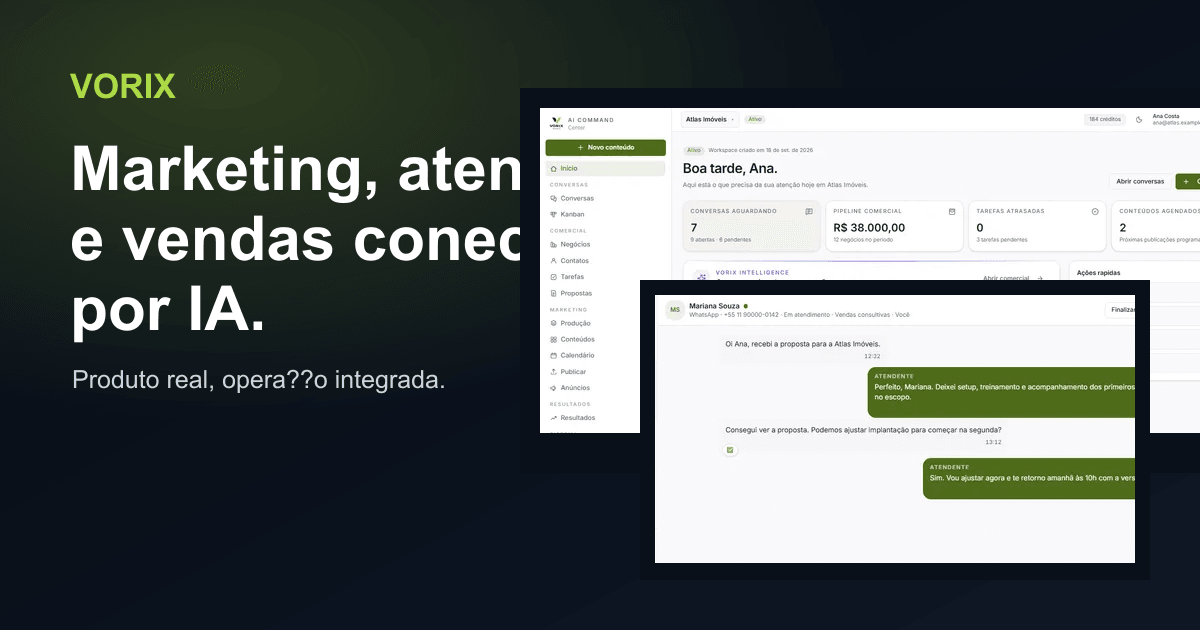
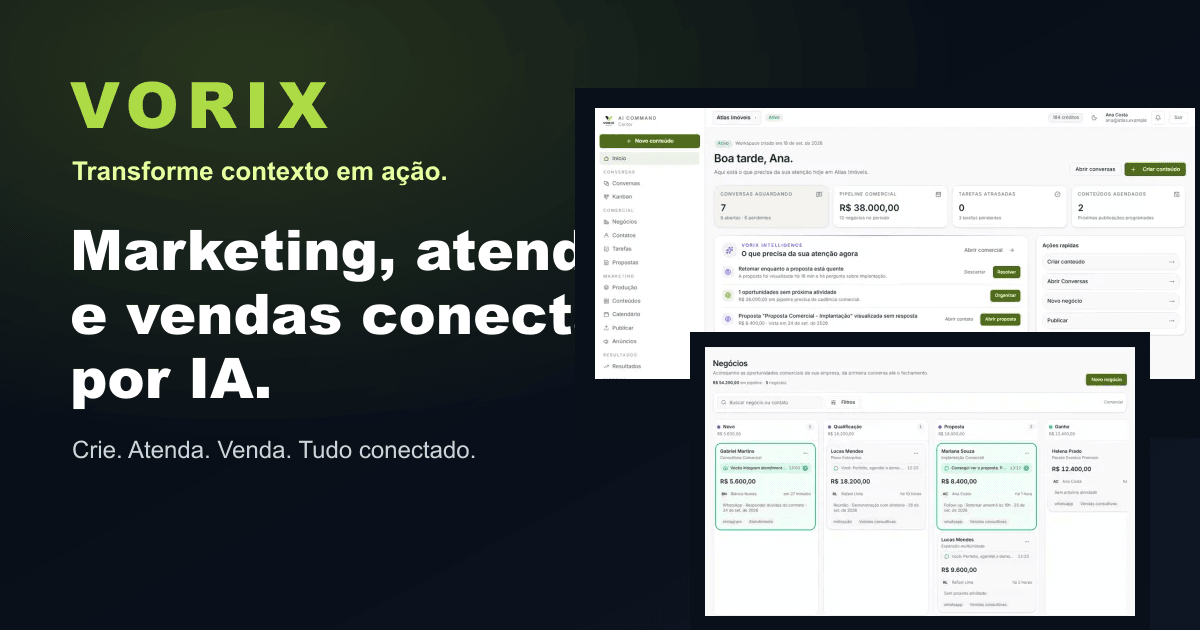
feat(web): pagina Empresa, metadata de SEO/OG mais forte e correcao de marca
Nova rota publica /empresa. Metadata (title/description/OG/Twitter) da home
reescrita com proposta de valor explicita ("Transforme contexto em ação") em
vez do nome sozinho; aponta pro opengraph-image.png estatico (troca feita no
commit anterior). Logo.tsx: aria-label/comentario corrigidos de "Vonix" para
"Vorix" (typo de marca). proxy.ts libera /empresa como rota publica.

Changed region(s): [[0.0617, 0.1206, 1.0, 0.9952], [0.0617, 0.573, 0.37, 0.6635], [0.0617, 0.6937, 0.4008, 0.7238]]

diff --git a/web/app/page.tsx b/web/app/page.tsx
@@ -92,14 +92,15 @@ export default async function RootPage() {
       <section className="relative border-b border-white/10 bg-[#080c13]">
         <div className="mx-auto grid max-w-7xl items-center gap-9 px-4 py-14 sm:px-6 sm:py-18 lg:grid-cols-[0.76fr_1.24fr] lg:py-20">
           <div className="max-w-2xl">
-            <p className="inline-flex rounded-full border border-[#addb46]/35 bg-[#addb46]/10 px-3 py-1 text-xs font-medium text-[#d7ff74]">
-              Vorix Intelligence
-            </p>
+            <div className="inline-flex flex-col gap-1">
+              <span className="font-mono text-sm font-semibold uppercase tracking-[0.28em] text-[#d7ff74]">Vorix</span>
+              <span className="text-sm font-medium text-slate-300">Transforme contexto em ação.</span>
+            </div>
             <h1 className="mt-5 text-balance font-display text-4xl font-semibold sm:text-5xl lg:text-6xl">
               Marketing, atendimento e vendas conectados por IA.
             </h1>
             <p className="mt-5 max-w-xl text-balance text-base leading-7 text-slate-300 sm:text-lg">
-              O Vorix conecta conteudo, conversas, CRM e resultados para sua equipe transformar contexto em receita.
+              O Vorix conecta conteudo, conversas, CRM e resultados para sua equipe transformar contexto em ação e ação em receita.
             </p>
             <div className="mt-7 flex flex-wrap gap-3">
               <Link href="/signup">
@@ -134,6 +135,8 @@ export default async function RootPage() {
           </div>
         </div>
       </section>
+
+      <BrandMissionSection />
 
       <section id="intelligence" className="border-y border-white/10 bg-[#070b12]">
         <div className="mx-auto grid max-w-7xl gap-10 px-4 py-16 sm:px-6 lg:grid-cols-[0.72fr_1.28fr] lg:py-20">
@@ -203,8 +206,9 @@ export default async function RootPage() {
 
       <section className="border-y border-white/10 bg-[#0b1019]">
         <div className="mx-auto max-w-4xl px-4 py-16 text-center sm:px-6 lg:py-20">
-          <h2 className="font-display text-3xl font-semibold text-white sm:text-4xl">Pronto para conectar sua operacao?</h2>
-          <p className="mx-auto mt-3 max-w-2xl text-slate-300">Marketing, atendimento e vendas trabalhando juntos no mesmo fluxo.</p>
+          <p className="font-mono text-sm font-semibold uppercase tracking-[0.28em] text-[#addb46]">Vorix</p>
+          <h2 className="mt-3 font-display text-3xl font-semibold text-white sm:text-4xl">Crie. Atenda. Venda. Tudo conectado.</h2>
+          <p className="mx-auto mt-3 max-w-2xl text-slate-300">Transforme contexto em ação com marketing, conversas e vendas trabalhando no mesmo fluxo.</p>
           <Link href="/signup">
             <Button className="mt-7 bg-[#addb46] px-6 py-3 text-[#071009] hover:bg-[#c7f45b]">Testar o Vorix por 7 dias</Button>
           </Link>
@@ -249,6 +253,64 @@ type ProductSection = {
     className: string;
   };
 };
+
+function BrandMissionSection() {
+  const flow = ["Criar", "Atender", "Vender"];
+  return (
+    <section className="border-y border-white/10 bg-[#0a0f18]">
+      <div className="mx-auto grid max-w-7xl gap-10 px-4 py-16 sm:px-6 lg:grid-cols-[0.95fr_1.05fr] lg:items-center lg:py-20">
+        <div>
+          <p className="font-mono text-sm font-semibold uppercase tracking-[0.26em] text-[#addb46]">Por que o Vorix existe</p>
+          <h2 className="mt-4 max-w-2xl font-display text-3xl font-semibold text-white sm:text-4xl">
+            Criar, atender e vender não deveriam acontecer em mundos separados.
+          </h2>
+          <p className="mt-5 max-w-2xl text-base leading-7 text-slate-300">
+            Empresas ainda operam marketing, atendimento e vendas como áreas isoladas. O resultado é perda de contexto, retrabalho e oportunidades esquecidas.
+          </p>
+          <p className="mt-4 max-w-2xl text-base leading-7 text-slate-300">
+            O Vorix nasceu para eliminar essas rupturas: conectar criação, conversas e gestão comercial em uma operação inteligente.
+          </p>
+          <div className="mt-7 flex flex-wrap gap-3">
+            <Link href="#produto">
+              <Button variant="secondary" className="border-white/20 bg-white/5 text-white hover:bg-white/10">
+                Ver o Vorix em ação
+              </Button>
+            </Link>
+            <Link href="/empresa">
+              <Button variant="ghost" className="text-white hover:bg-white/10">Conhecer a missão</Button>
+            </Link>
+          </div>
+        </div>
+
+        <div className="rounded-2xl border border-white/10 bg-[#101827] p-5 shadow-2xl shadow-black/30 sm:p-6">
+          <div className="mb-6">
+            <p className="font-mono text-xs font-semibold uppercase tracking-[0.24em] text-[#d7ff74]">Vorix</p>
+            <p className="mt-2 text-2xl font-semibold text-white">Transforme contexto em ação.</p>
+            <p className="mt-1 text-sm text-slate-400">Transforme ação em resultado.</p>
+          </div>
+          <div className="grid gap-3 md:grid-cols-3">
+            {flow.map((item, index) => (
+              <div key={item} className="relative rounded-xl border border-white/10 bg-white/[0.04] p-4">
+                {index < flow.length - 1 ? (
+                  <ArrowRight className="absolute -right-5 top-1/2 hidden h-5 w-5 -translate-y-1/2 text-[#addb46] md:block" />
+                ) : null}
+                <p className="font-mono text-xs text-slate-500">0{index + 1}</p>
+                <p className="mt-3 text-xl font-semibold text-white">{item}</p>
+                <p className="mt-2 text-sm leading-6 text-slate-400">{brandFlowCopy(item)}</p>
+              </div>
+            ))}
+          </div>
+          <div className="mt-5 rounded-xl border border-[#addb46]/25 bg-[#addb46]/10 p-4">
+            <p className="text-sm font-medium text-[#e6ff9f]">O contexto atravessa a operação.</p>
+            <p className="mt-1 text-sm leading-6 text-slate-300">
+              A conversa carrega o contato. O CRM conhece a conversa. A proposta conhece o negócio. O time decide com menos ruptura.
+            </p>
+          </div>
+        </div>
+      </div>
+    </section>
+  );
+}
 
 type ProductShotName =
   | "command-center"
@@ -419,4 +481,10 @@ function journeyCopy(step: (typeof JOURNEY)[number]) {
   if (step === "Conversar") return "O retorno entra no atendimento com historico.";
   if (step === "Vender") return "Contato vira oportunidade, tarefa e proposta.";
   return "O time acompanha sinais e resultado sem perder contexto.";
+}
+
+function brandFlowCopy(step: string) {
+  if (step === "Criar") return "Marketing gera demanda com identidade e direção.";
+  if (step === "Atender") return "Conversas preservam histórico e intenção.";
+  return "Oportunidades, tarefas e propostas avançam com contexto.";
 }

diff --git a/web/app/empresa/page.tsx b/web/app/empresa/page.tsx
@@ -1,0 +1,138 @@
+import type { Metadata } from "next";
+import Link from "next/link";
+import { ArrowRight } from "lucide-react";
+import { Button } from "@/components/Button";
+import { PublicFooter } from "@/components/public/PublicFooter";
+import { PublicHeader } from "@/components/public/PublicHeader";
+import { TrackPageView } from "@/components/TrackPageView";
+
+export const metadata: Metadata = {
+  title: "Empresa — Vorix",
+  description: "Por que o Vorix existe: eliminar rupturas entre criar, atender e vender para transformar contexto em ação.",
+  openGraph: {
+    title: "Empresa — Vorix",
+    description: "Transforme contexto em ação.",
+    url: "https://vorixworks.com/empresa",
+  },
+};
+
+const PRINCIPLES = [
+  {
+    title: "Contexto antes de complexidade",
+    description: "Tudo que o time precisa para decidir deve atravessar a operação, sem se perder entre ferramentas.",
+  },
+  {
+    title: "Automação sem perder controle",
+    description: "IA e automação ajudam a equipe a agir melhor, sem esconder o que está acontecendo.",
+  },
+  {
+    title: "Simples por fora",
+    description: "O sistema pode ser sofisticado internamente, mas precisa ser claro para quem opera todos os dias.",
+  },
+  {
+    title: "Resultado acima de ferramenta",
+    description: "Tecnologia só importa quando reduz ruptura, melhora cadência e ajuda a operação a avançar.",
+  },
+];
+
+export default function EmpresaPage() {
+  return (
+    <main className="min-h-dvh bg-[#070b12] text-white">
+      <TrackPageView eventName="landing_view" />
+      <PublicHeader />
+
+      <section className="border-b border-white/10">
+        <div className="mx-auto max-w-7xl px-4 py-16 sm:px-6 lg:py-24">
+          <p className="font-mono text-sm font-semibold uppercase tracking-[0.28em] text-[#addb46]">Vorix</p>
+          <h1 className="mt-5 max-w-4xl font-display text-4xl font-semibold sm:text-5xl lg:text-6xl">
+            Existimos para eliminar rupturas entre criar, atender e vender.
+          </h1>
+          <p className="mt-6 max-w-2xl text-lg leading-8 text-slate-300">
+            Marketing cria demanda. A demanda vira conversa. A conversa vira contato. O contato vira negócio. O contexto não deveria se perder nesse caminho.
+          </p>
+          <div className="mt-8 flex flex-wrap gap-3">
+            <Link href="/signup">
+              <Button className="bg-[#addb46] px-5 py-3 text-[#071009] hover:bg-[#c7f45b]">Testar por 7 dias</Button>
+            </Link>
+            <Link href="/#produto">
+              <Button variant="secondary" className="border-white/20 bg-white/5 px-5 py-3 text-white hover:bg-white/10">Ver produto</Button>
+            </Link>
+          </div>
+        </div>
+      </section>
+
+      <section className="border-b border-white/10 bg-[#0a0f18]">
+        <div className="mx-auto grid max-w-7xl gap-8 px-4 py-16 sm:px-6 lg:grid-cols-[0.75fr_1.25fr] lg:py-20">
+          <div>
+            <p className="font-mono text-sm font-semibold uppercase tracking-[0.24em] text-[#addb46]">Nossa missão</p>
+          </div>
+          <div>
+            <p className="font-display text-3xl font-semibold leading-tight text-white sm:text-4xl">
+              Eliminar as rupturas entre criar, atender e vender.
+            </p>
+            <p className="mt-5 max-w-3xl text-base leading-8 text-slate-300">
+              Nossa missão é eliminar as rupturas entre criar, atender e vender, conectando marketing, conversas e gestão comercial em uma única operação inteligente — para transformar contexto em ação e ação em resultado.
+            </p>
+          </div>
+        </div>
+      </section>
+
+      <section className="border-b border-white/10">
+        <div className="mx-auto grid max-w-7xl gap-10 px-4 py-16 sm:px-6 lg:grid-cols-2 lg:py-20">
+          <InstitutionBlock
+            eyebrow="O problema"
+            title="Operações crescem em sistemas separados."
+            body="Quando criação, atendimento e vendas ficam isolados, o time perde histórico, repete trabalho e deixa oportunidades sem próxima ação."
+          />
+          <InstitutionBlock
+            eyebrow="Nossa visão"
+            title="Um futuro sem contextos separados."
+            body="Acreditamos em empresas operando marketing, atendimento e vendas em uma mesma cadência, com informação conectada e decisões mais claras."
+          />
+        </div>
+      </section>
+
+      <section className="bg-[#0b1019]">
+        <div className="mx-auto max-w-7xl px-4 py-16 sm:px-6 lg:py-20">
+          <div className="max-w-3xl">
+            <p className="font-mono text-sm font-semibold uppercase tracking-[0.24em] text-[#addb46]">Princípios</p>
+            <h2 className="mt-4 font-display text-3xl font-semibold text-white sm:text-4xl">O que guia o produto.</h2>
+          </div>
+          <div className="mt-10 grid gap-4 md:grid-cols-2">
+            {PRINCIPLES.map((principle) => (
+              <article key={principle.title} className="rounded-xl border border-white/10 bg-white/[0.04] p-5">
+                <h3 className="font-semibold text-white">{principle.title}</h3>
+                <p className="mt-3 text-sm leading-6 text-slate-300">{principle.description}</p>
+              </article>
+            ))}
+          </div>
+        </div>
+      </section>
+
+      <section className="border-y border-white/10 bg-[#070b12]">
+        <div className="mx-auto max-w-4xl px-4 py-16 text-center sm:px-6 lg:py-20">
+          <p className="font-mono text-sm font-semibold uppercase tracking-[0.28em] text-[#addb46]">Vorix</p>
+          <h2 className="mt-3 font-display text-3xl font-semibold text-white sm:text-4xl">Transforme contexto em ação.</h2>
+          <p className="mx-auto mt-3 max-w-2xl text-slate-300">Crie. Atenda. Venda. Tudo conectado.</p>
+          <Link href="/signup">
+            <Button className="mt-7 bg-[#addb46] px-6 py-3 text-[#071009] hover:bg-[#c7f45b]">
+              Testar por 7 dias <ArrowRight className="ml-2 h-4 w-4" />
+            </Button>
+          </Link>
+        </div>
+      </section>
+
+      <PublicFooter />
+    </main>
+  );
+}
+
+function InstitutionBlock({ eyebrow, title, body }: { eyebrow: string; title: string; body: string }) {
+  return (
+    <article className="rounded-2xl border border-white/10 bg-[#101827] p-6">
+      <p className="font-mono text-xs font-semibold uppercase tracking-[0.22em] text-[#addb46]">{eyebrow}</p>
+      <h2 className="mt-4 font-display text-2xl font-semibold text-white sm:text-3xl">{title}</h2>
+      <p className="mt-4 text-base leading-7 text-slate-300">{body}</p>
+    </article>
+  );
+}

diff --git a/web/components/public/PublicHeader.tsx b/web/components/public/PublicHeader.tsx
@@ -18,15 +18,15 @@ export function PublicHeader() {
   return (
     <header className="sticky top-0 z-40 border-b border-white/10 bg-[#070b12]/90 text-white backdrop-blur-xl">
       <div className="mx-auto flex h-16 w-full max-w-7xl items-center justify-between px-4 sm:px-6">
-        <Link href="/" aria-label="Vorix">
-          <Logo className="h-10 w-auto text-white" />
+        <Link href="/" aria-label="Vorix" className="flex items-center">
+          <Logo className="h-12 w-auto text-white sm:h-[52px]" />
         </Link>
         <nav className="hidden items-center gap-6 text-sm text-slate-300 md:flex">
           {LINKS.map((link) => <Link key={link.href} href={link.href} className="hover:text-white">{link.label}</Link>)}
         </nav>
         <div className="hidden items-center gap-2 md:flex">
           <Link href="/login"><Button variant="ghost" className="text-white hover:bg-white/10">Entrar</Button></Link>
-          <Link href="/signup"><Button className="bg-[#addb46] text-[#071009] hover:bg-[#c7f45b]">Criar conta</Button></Link>
+          <Link href="/signup"><Button className="bg-[#addb46] text-[#071009] hover:bg-[#c7f45b]">Testar por 7 dias</Button></Link>
         </div>
         <button type="button" className="flex h-10 w-10 items-center justify-center rounded-md text-white hover:bg-white/10 md:hidden" onClick={() => setOpen((value) => !value)} aria-label="Abrir menu">
           {open ? <X className="h-5 w-5" /> : <Menu className="h-5 w-5" />}
@@ -39,7 +39,7 @@ export function PublicHeader() {
           </nav>
           <div className="mt-4 grid gap-2">
             <Link href="/login" onClick={() => setOpen(false)}><Button variant="secondary" className="w-full border-white/20 bg-white/5 text-white hover:bg-white/10">Entrar</Button></Link>
-            <Link href="/signup" onClick={() => setOpen(false)}><Button className="w-full bg-[#addb46] text-[#071009] hover:bg-[#c7f45b]">Criar conta</Button></Link>
+            <Link href="/signup" onClick={() => setOpen(false)}><Button className="w-full bg-[#addb46] text-[#071009] hover:bg-[#c7f45b]">Testar por 7 dias</Button></Link>
           </div>
         </div>
       ) : null}

diff --git a/web/components/public/PublicFooter.tsx b/web/components/public/PublicFooter.tsx
@@ -6,12 +6,13 @@ export function PublicFooter() {
     <footer className="border-t border-border bg-background px-4 py-10 sm:px-6">
       <div className="mx-auto grid max-w-7xl gap-8 md:grid-cols-[minmax(0,1.2fr)_repeat(3,minmax(140px,1fr))]">
         <div>
-          <Logo className="h-10 w-auto text-foreground" />
-          <p className="mt-3 max-w-sm text-sm text-muted-foreground">Marketing, atendimento e vendas conectados por IA.</p>
+          <Logo className="h-12 w-auto text-foreground" />
+          <p className="mt-3 text-sm font-semibold text-foreground">Transforme contexto em ação.</p>
+          <p className="mt-2 max-w-sm text-sm text-muted-foreground">Marketing, atendimento e vendas conectados por IA.</p>
           <p className="mt-4 text-xs text-muted-foreground">© {new Date().getFullYear()} Vorix. Todos os direitos reservados.</p>
         </div>
         <FooterGroup title="Produto" links={[["/", "Visão geral"], ["/pricing", "Preços"], ["/signup", "Criar conta"]]} />
-        <FooterGroup title="Empresa" links={[["mailto:comercial@vorixworks.com", "Contato"]]} />
+        <FooterGroup title="Empresa" links={[["/empresa", "Por que existimos"], ["mailto:comercial@vorixworks.com", "Contato"]]} />
         <FooterGroup title="Legal" links={[["/privacy", "Privacidade"], ["/terms", "Termos"], ["/data-deletion", "Exclusão de dados"]]} />
       </div>
     </footer>

diff --git a/web/app/layout.tsx b/web/app/layout.tsx
@@ -13,22 +13,22 @@ const plexMono = IBM_Plex_Mono({ subsets: ["latin"], weight: ["400", "500"], var
 
 export const metadata: Metadata = {
   metadataBase: new URL("https://vorixworks.com"),
-  title: "Vorix",
-  description: "Marketing, atendimento e vendas conectados por IA.",
+  title: "Vorix — Marketing, atendimento e vendas conectados por IA",
+  description: "Transforme contexto em ação com o Vorix: marketing, conversas e gestão comercial conectados em uma única operação inteligente.",
   openGraph: {
-    title: "Vorix",
+    title: "Vorix — Transforme contexto em ação",
     description: "Marketing, atendimento e vendas conectados por IA.",
     url: "https://vorixworks.com",
     siteName: "Vorix",
-    images: [{ url: "/opengraph-image", width: 1200, height: 630, alt: "Vorix Command Center" }],
+    images: [{ url: "/opengraph-image.png", width: 1200, height: 630, alt: "Vorix — Transforme contexto em ação" }],
     locale: "pt_BR",
     type: "website",
   },
   twitter: {
     card: "summary_large_image",
-    title: "Vorix",
+    title: "Vorix — Transforme contexto em ação",
     description: "Marketing, atendimento e vendas conectados por IA.",
-    images: ["/opengraph-image"],
+    images: ["/opengraph-image.png"],
   },
   other: {
     "facebook-domain-verification": "0slbgshopmsabjin5tk6xt2ylbi4eg",

diff --git a/web/components/Logo.tsx b/web/components/Logo.tsx
@@ -1,7 +1,7 @@
 import type { SVGProps } from "react";
 
 /**
- * Marca Vonix — as duas hastes diagonais do topo (o "V") usam a cor de marca fixa
+ * Marca Vorix — as duas hastes diagonais do topo (o "V") usam a cor de marca fixa
  * (`--color-brand`, o lima #ADDB46 do arquivo original); as demais letras herdam `currentColor`
  * para acompanhar `text-ink` automaticamente entre os temas claro/escuro.
  */
@@ -10,7 +10,7 @@ export function Logo({ className, ...props }: SVGProps<SVGSVGElement>) {
     <svg
       viewBox="0 0 272 256"
       role="img"
-      aria-label="Vonix"
+      aria-label="Vorix"
       className={className}
       {...props}
     >

diff --git a/web/proxy.ts b/web/proxy.ts
@@ -32,6 +32,7 @@ export function proxy(request: NextRequest) {
   if (
     pathname.startsWith("/p/") ||
     pathname.startsWith("/product-shots/") ||
+    pathname === "/empresa" ||
     pathname === "/pricing" ||
     pathname === "/privacy" ||
     pathname === "/terms" ||
